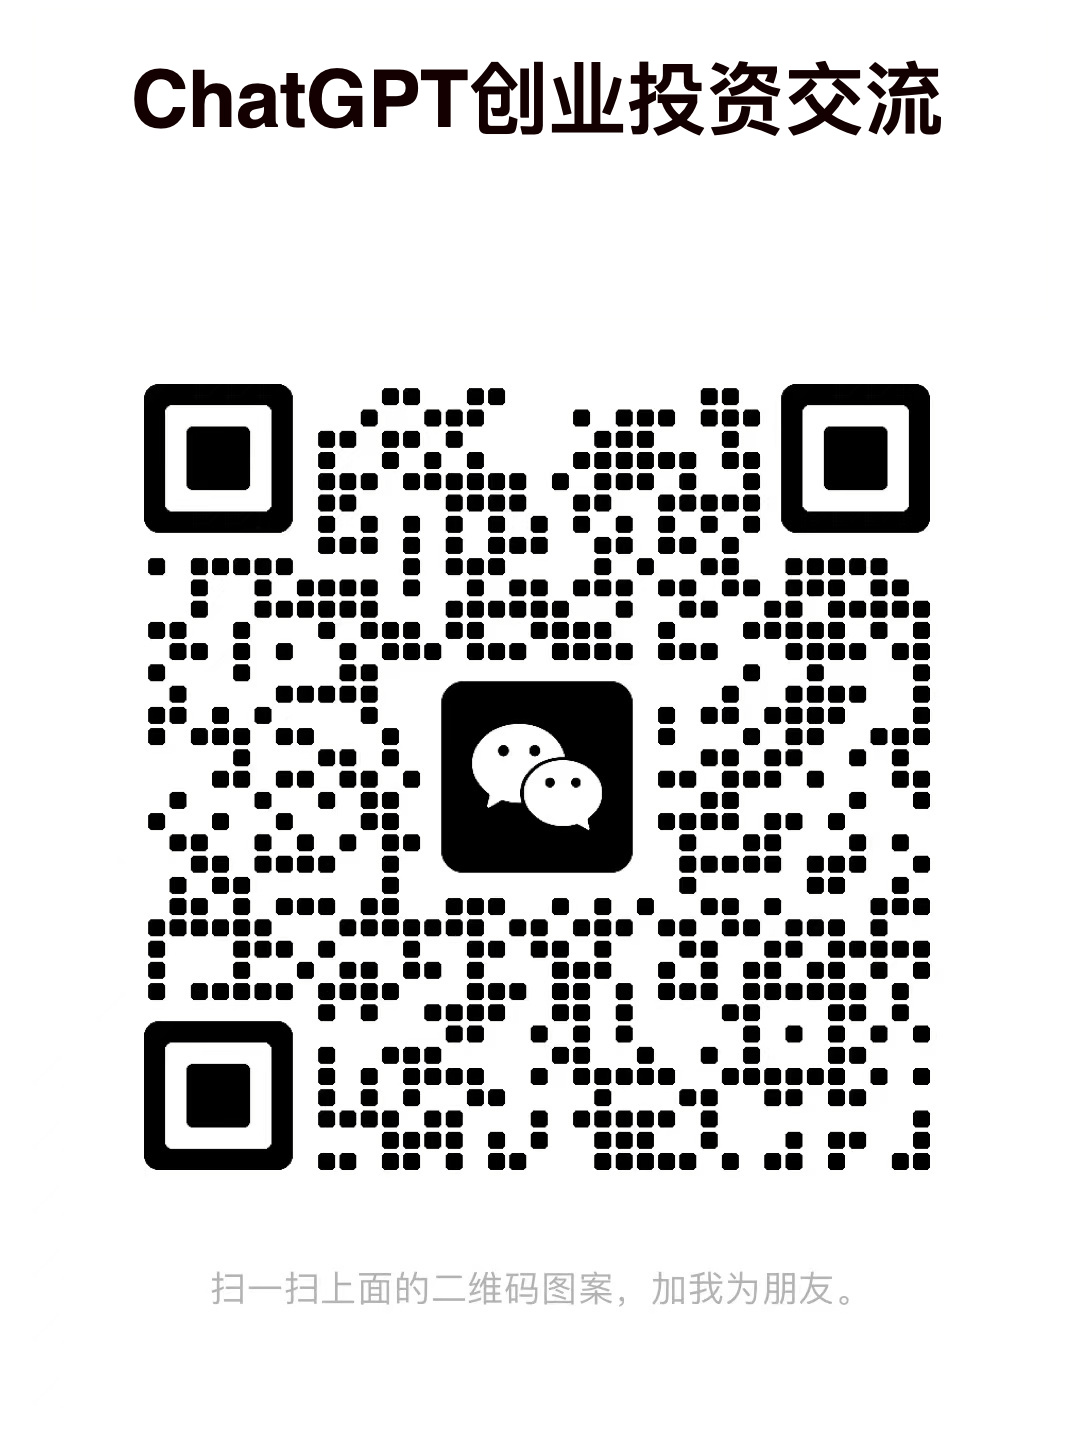
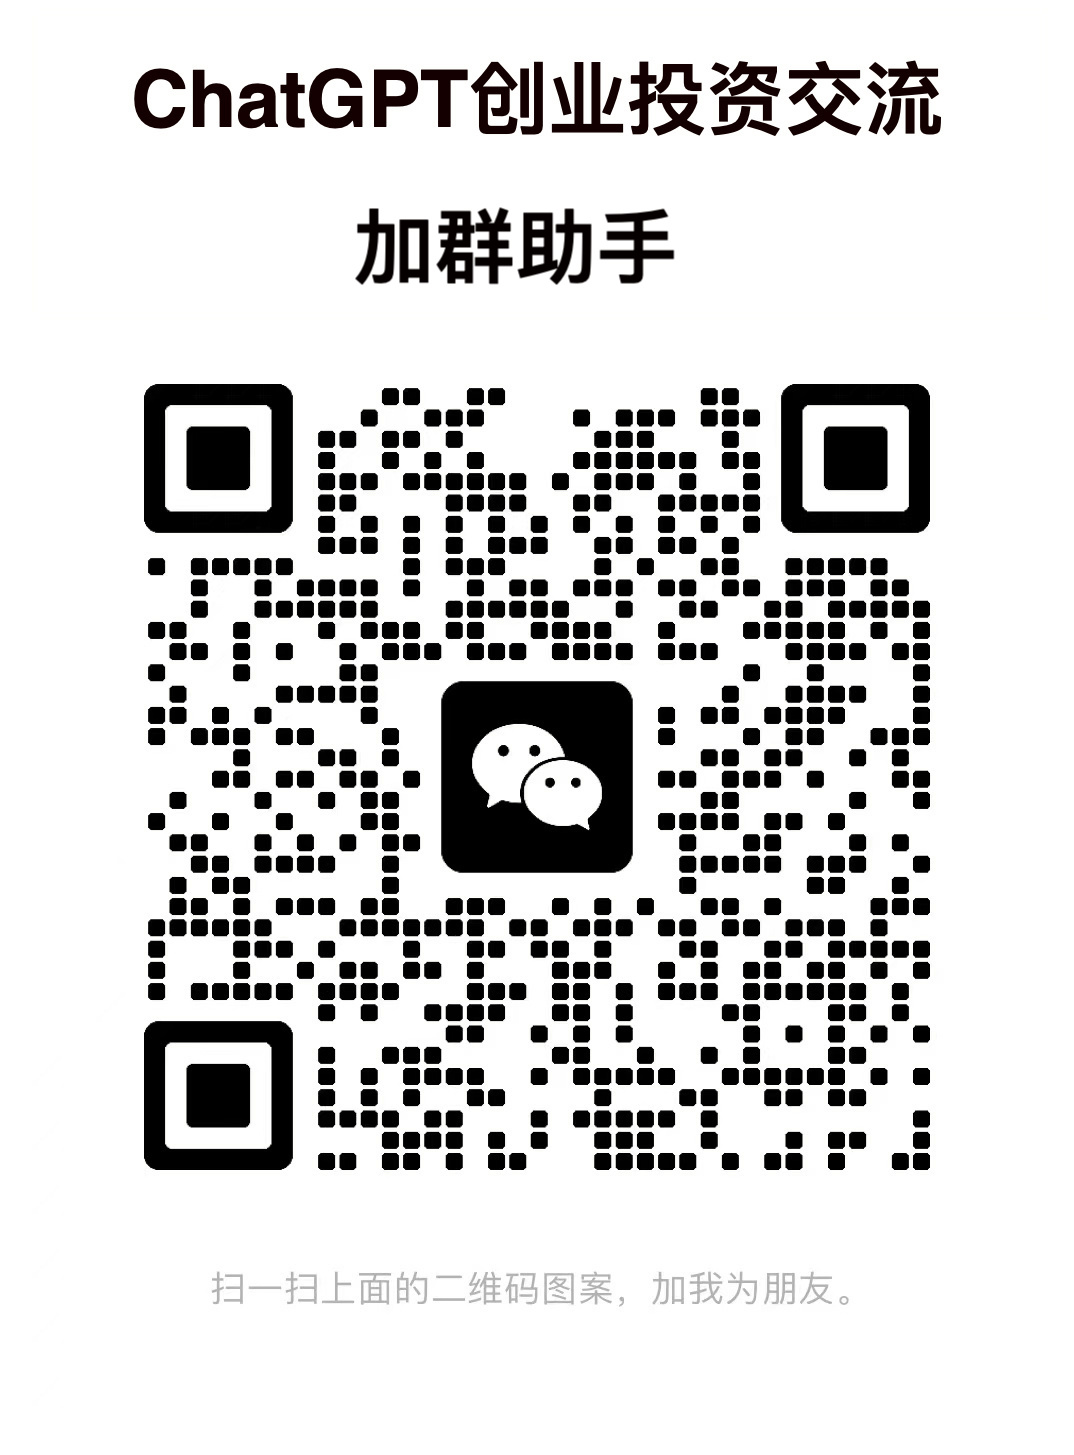
增加论文链接，增加加群助手文字

Changed region(s): [[0.338, 0.1237, 0.6453, 0.2165]]

diff --git a/ReadMe.md b/ReadMe.md
@@ -1,22 +1,27 @@
 # ChatGPTHub信息中心（All-In-One）
 
 # 技术和创业投资讨论小组
-<img src="./images/WeChat-technology.jpg" alt="加群助手" width="30%" height="30%" />
-ChatGPT技术和创业投资交流小组
+<img src="./images/WeChat.jpg" alt="加群助手" width="30%" height="30%" />
+拉群助手——ChatGPT技术和创业投资交流小组
 
 # 证券研究报告
-[ChatGPT研究框架（2023）](https://github.com/leemingjun/ChatGPTHub/blob/main/research/ChatGPT%20research%20framwork-2023.pdf)
+1.[ChatGPT研究框架（2023）](https://github.com/leemingjun/ChatGPTHub/blob/main/research/ChatGPT%20research%20framwork-2023.pdf)
 
-[从CHAT-GPT到生成式AI-人工智能新范式，重新定义生产力](https://github.com/leemingjun/ChatGPTHub/blob/main/research/%E4%BB%8ECHAT-GPT%E5%88%B0%E7%94%9F%E6%88%90%E5%BC%8FAI%EF%BC%9A%E4%BA%BA%E5%B7%A5%E6%99%BA%E8%83%BD%E6%96%B0%E8%8C%83%E5%BC%8F%EF%BC%8C%E9%87%8D%E6%96%B0%E5%AE%9A%E4%B9%89%E7%94%9F%E4%BA%A7%E5%8A%9B-2023-02-%E5%AE%8F%E8%A7%82%E5%A4%A7%E5%8A%BF.pdf)
+2.[从CHAT-GPT到生成式AI-人工智能新范式，重新定义生产力](https://github.com/leemingjun/ChatGPTHub/blob/main/research/%E4%BB%8ECHAT-GPT%E5%88%B0%E7%94%9F%E6%88%90%E5%BC%8FAI%EF%BC%9A%E4%BA%BA%E5%B7%A5%E6%99%BA%E8%83%BD%E6%96%B0%E8%8C%83%E5%BC%8F%EF%BC%8C%E9%87%8D%E6%96%B0%E5%AE%9A%E4%B9%89%E7%94%9F%E4%BA%A7%E5%8A%9B-2023-02-%E5%AE%8F%E8%A7%82%E5%A4%A7%E5%8A%BF.pdf)
 
 # 相关论文
 
-[Transformer-Attention Is All You Need.pdf](https://github.com/leemingjun/ChatGPTHub/blob/main/papers/Transformer-Attention%20Is%20All%20You%20Need.pdf)
-[GPT1-Improving Language Understanding by Generative Pre-Training.pdf](https://github.com/leemingjun/ChatGPTHub/blob/main/papers/GPT1-Improving%20Language%20Understanding%20by%20Generative%20Pre-Training.pdf)
-[GPT2-Language Models are Unsupervised Multitask Learners.pdf](https://github.com/leemingjun/ChatGPTHub/blob/main/papers/GPT2-Language%20Models%20are%20Unsupervised%20Multitask%20Learners.pdf)
-[GPT3-Language Models are Few-Shot Learners.pdf](https://github.com/leemingjun/ChatGPTHub/blob/main/papers/GPT3-Language%20Models%20are%20Few-Shot%20Learners.pdf)
-[Instrction-Training language models to follow instructions with human feedback.pdf](https://github.com/leemingjun/ChatGPTHub/blob/main/papers/Instrction-Training%20language%20models%20to%20follow%20instructions%20with%20human%20feedback.pdf)
-[COT-Prompting Elicits Reasoning in Large Language Models.pdf](https://github.com/leemingjun/ChatGPTHub/blob/main/papers/COT%20Prompting%20Elicits%20Reasoning%20in%20Large%20Language%20Models.pdf)
+1.[Transformer-Attention Is All You Need.pdf](https://github.com/leemingjun/ChatGPTHub/blob/main/papers/Transformer-Attention%20Is%20All%20You%20Need.pdf)
 
-[GPT-4 Technical Report.pdf](https://github.com/leemingjun/ChatGPTHub/blob/main/papers/GPT-4%20Technical%20Report.pdf)
-[Sparks of Artificial General Intelligence - Early experiments with GPT-4.pdf](https://github.com/leemingjun/ChatGPTHub/blob/main/papers/Sparks%20of%20Artificial%20General%20Intelligence%20-%20Early%20experiments%20with%20GPT-4.pdf)
+2.[GPT1-Improving Language Understanding by Generative Pre-Training.pdf](https://github.com/leemingjun/ChatGPTHub/blob/main/papers/GPT1-Improving%20Language%20Understanding%20by%20Generative%20Pre-Training.pdf)
+
+3.[GPT2-Language Models are Unsupervised Multitask Learners.pdf](https://github.com/leemingjun/ChatGPTHub/blob/main/papers/GPT2-Language%20Models%20are%20Unsupervised%20Multitask%20Learners.pdf)
+
+4.[GPT3-Language Models are Few-Shot Learners.pdf](https://github.com/leemingjun/ChatGPTHub/blob/main/papers/GPT3-Language%20Models%20are%20Few-Shot%20Learners.pdf)
+
+5.[Instrction-Training language models to follow instructions with human feedback.pdf](https://github.com/leemingjun/ChatGPTHub/blob/main/papers/Instrction-Training%20language%20models%20to%20follow%20instructions%20with%20human%20feedback.pdf)
+
+6.[COT-Prompting Elicits Reasoning in Large Language Models.pdf](https://github.com/leemingjun/ChatGPTHub/blob/main/papers/COT%20Prompting%20Elicits%20Reasoning%20in%20Large%20Language%20Models.pdf)
+
+7.[GPT-4 Technical Report.pdf](https://github.com/leemingjun/ChatGPTHub/blob/main/papers/GPT-4%20Technical%20Report.pdf)
+8.[Sparks of Artificial General Intelligence - Early experiments with GPT-4.pdf](https://github.com/leemingjun/ChatGPTHub/blob/main/papers/Sparks%20of%20Artificial%20General%20Intelligence%20-%20Early%20experiments%20with%20GPT-4.pdf)
